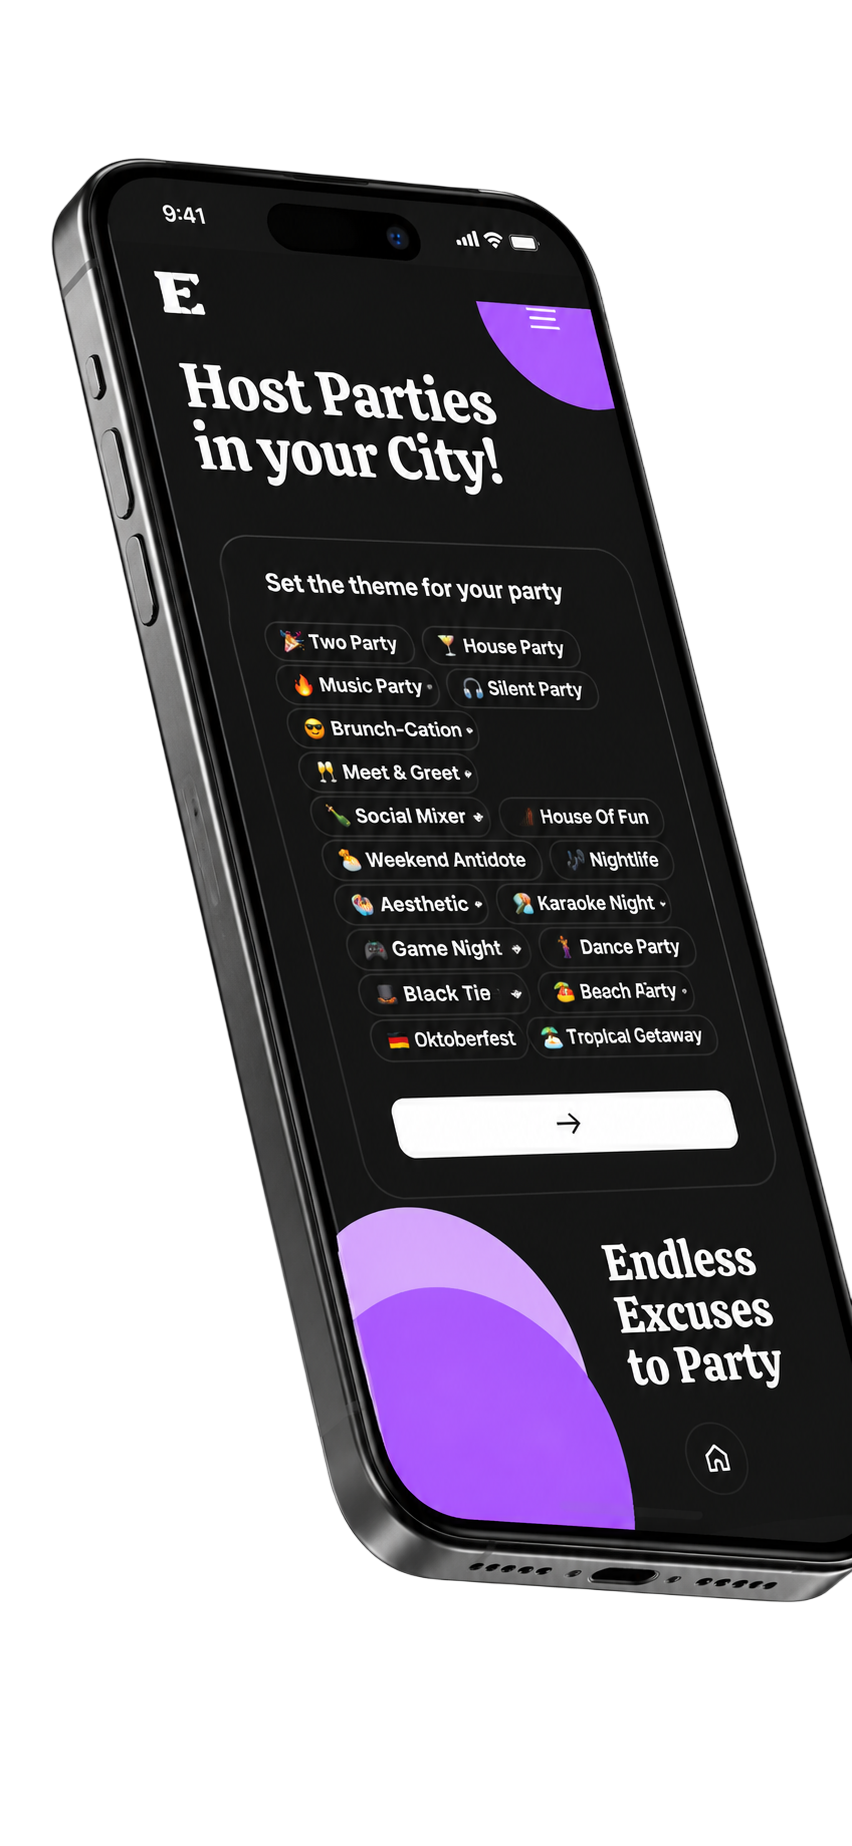
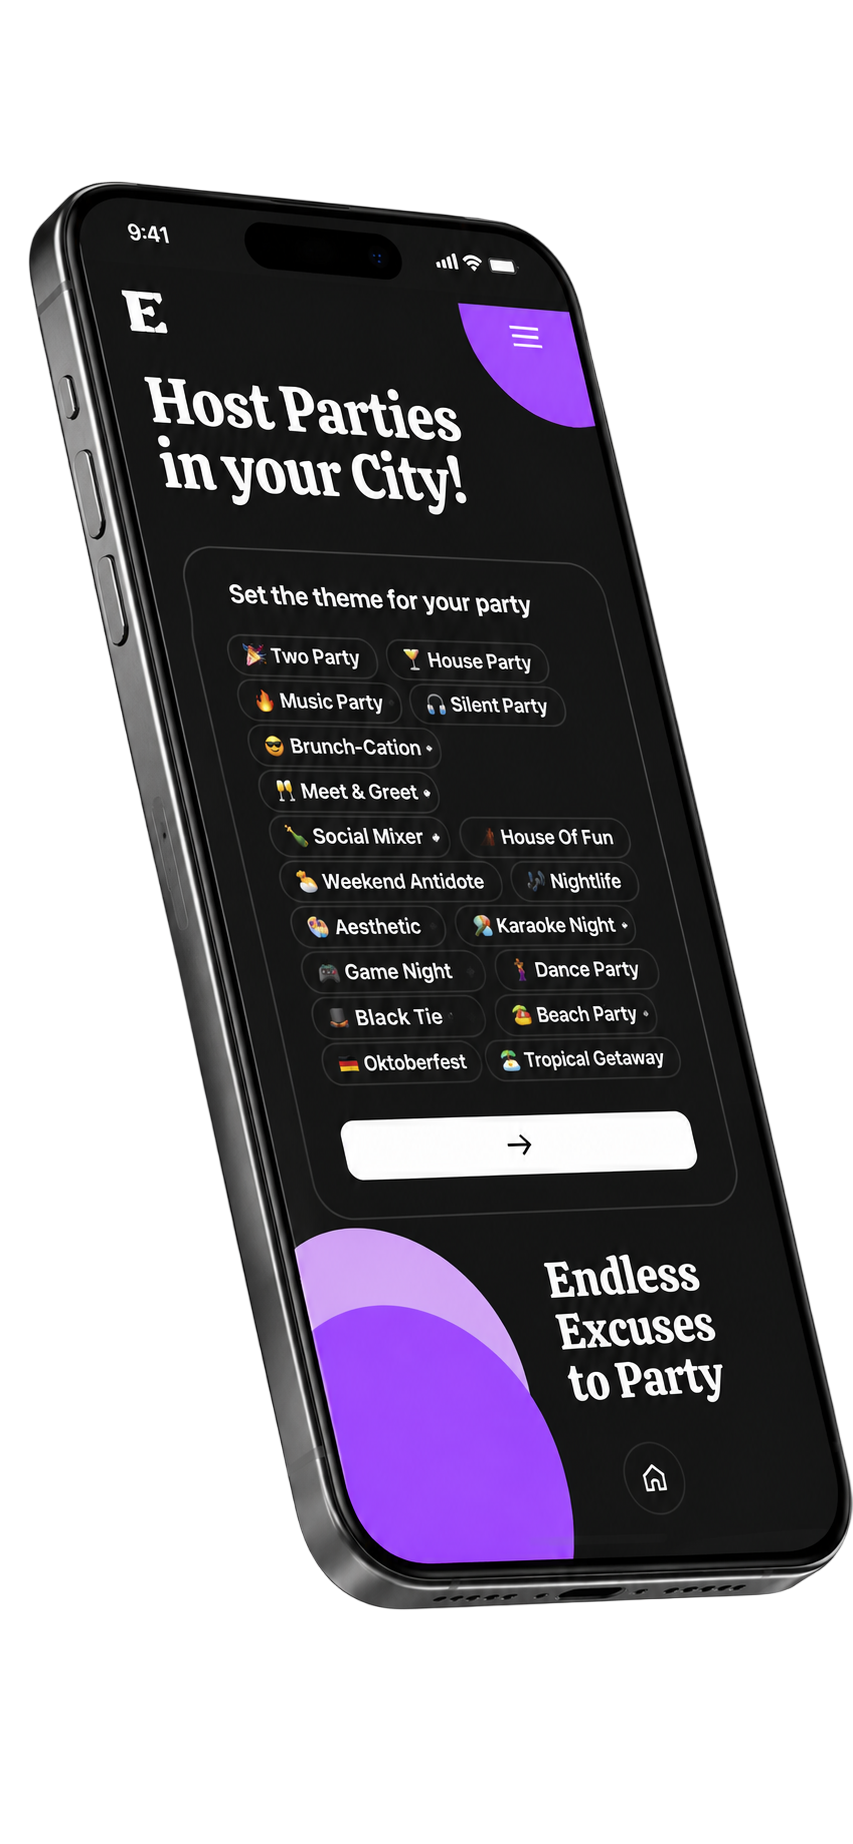
feat: add Home page components including Hero section, feature grid, and mockup displays

Changed region(s): [[0.0305, 0.0618, 1.0, 0.8964]]

diff --git a/src/modules/Home/components/Herosection.tsx b/src/modules/Home/components/Herosection.tsx
@@ -4,13 +4,14 @@ import { Section } from '@/Shared/Seaction/Section';
 import HeroBackground from '@/Shared/Background/HeroBackground';
 import { WaitlistButton } from '@/Shared/Button/WaitlistButton';
 import { Particles } from '@/components/ui/particles';
+import { HeroMockup } from './HeroMockup';
 
 export function Herosection() {
   return (
     <Section
-      size="sm"
+      size="default"
       padding="none"
-      className="min-h-[91vh] flex flex-col items-center justify-center text-center py-24"
+      className="relative min-h-[92vh] flex flex-col items-center justify-center text-center pt-20 sm:pt-24 pb-12 overflow-hidden"
     >
       {/* Background Ambient Glow */}
       <HeroBackground />
@@ -26,30 +27,34 @@ export function Herosection() {
       />
 
       {/* Main Foreground Content */}
-      <div className="relative z-10 mx-auto flex max-w-4xl flex-col items-center">
+      <div className="relative z-10 mx-auto flex max-w-3xl flex-col items-center px-4">
         {/* Top Pill Badge */}
-        <div className="inline-flex items-center rounded-full border border-white/15 bg-white/[0.04] px-5 py-1.5 backdrop-blur-md transition-all hover:border-white/25">
+        <div className="mt-6 inline-flex items-center rounded-full border border-white/15 bg-white/4 px-5 py-1.5 backdrop-blur-md transition-all hover:border-white/25">
           <span className="text-[11px] font-medium uppercase tracking-[0.2em] text-zinc-300">
             STRANGERS. HANGOUTS. MEMORIES.
           </span>
         </div>
 
         {/* Main Headline */}
-        <h1 className="mt-8 text-2xl font-normal tracking-tight text-white sm:text-3xl md:text-5xl lg:text-6xl leading-[1.15]">
+        <h1 className="mt-8 text-3xl font-normal tracking-tight text-white sm:text-4xl md:text-5xl lg:text-6xl leading-[1.12]">
           Turn city strangers into
           <br />
           your real-world crew
         </h1>
 
         {/* Subtitle */}
-        <p className="mt-6 max-w-xl text-base text-zinc-400 sm:text-lg leading-relaxed font-normal">
+        <p className="mt-6 max-w-lg text-sm sm:text-base text-zinc-400 leading-relaxed font-normal">
           Discover themed meetups, host spontaneous hangouts, and connect with people who share your
           authentic vibe.
         </p>
+
         {/* CTA Button */}
         <div className="mt-10">
           <WaitlistButton href="#signup" text="SignUp Now" />
         </div>
+
+        {/* Phone Mockup Component */}
+        <HeroMockup className="hidden" />
       </div>
     </Section>
   );

diff --git a/src/modules/Home/components/HeroMockup.tsx b/src/modules/Home/components/HeroMockup.tsx
@@ -1,0 +1,40 @@
+'use client';
+
+import React from 'react';
+import Image from 'next/image';
+import { cn } from '@/lib/utils';
+
+interface HeroMockupProps {
+  imageSrc?: string;
+  className?: string;
+}
+
+export function HeroMockup({
+  imageSrc = '/mockup/image3-Photoroom.png',
+  className,
+}: HeroMockupProps) {
+  return (
+    <div
+      className={cn('relative mt-10 w-full max-w-sm sm:max-w-md mx-auto select-none', className)}
+    >
+      {/* Subtle Ambient Radial Bloom behind Phone */}
+      <div
+        className="pointer-events-none absolute -inset-6 rounded-full bg-linear-to-r from-[#5b1ce6]/30 via-[#c2410c]/20 to-[#5b1ce6]/30 blur-3xl -z-10 opacity-70"
+        aria-hidden="true"
+      />
+
+      <div className="relative mx-auto flex items-center justify-center">
+        <Image
+          src={imageSrc}
+          alt="Extroverts App Mobile Interface"
+          width={400}
+          height={700}
+          className="w-full max-w-90 h-auto object-contain drop-shadow-[0_30px_70px_rgba(0,0,0,0.95)] scale-110"
+          priority
+        />
+      </div>
+    </div>
+  );
+}
+
+export default HeroMockup;

diff --git a/src/modules/Home/components/PerformanceSolutions.tsx b/src/modules/Home/components/PerformanceSolutions.tsx
@@ -61,7 +61,7 @@ export function PerformanceSolutions() {
             <div
               key={index}
               className={cn(
-                'group relative min-h-60 sm:min-h-64 w-full overflow-hidden rounded-3xl sm:rounded-[32px] border border-white/10 bg-zinc-950 p-8 sm:p-10 text-center transition-all duration-300',
+                'group relative min-h-60 sm:min-h-64 w-full overflow-hidden rounded-3xl sm:rounded-2xl border border-white/10 bg-zinc-950 p-8 sm:p-10 text-center transition-all duration-300',
                 'flex flex-col items-center justify-center hover:border-white/20 active:scale-[0.99]',
               )}
             >

diff --git a/src/modules/Home/components/CampaignResults.tsx b/src/modules/Home/components/CampaignResults.tsx
@@ -87,9 +87,8 @@ export function CampaignResults() {
           <div className="mt-12 lg:mt-16 w-full flex justify-center lg:justify-start">
             <CampaignCard
               title="Vibe Tokens & Community"
-              inverted
               metric="Bronze to VIP Club Status"
-              imageSrc="/mockup/image2-Photoroom.png"
+              imageSrc="/mockup/image3-Photoroom.png"
             />
           </div>
         </div>
